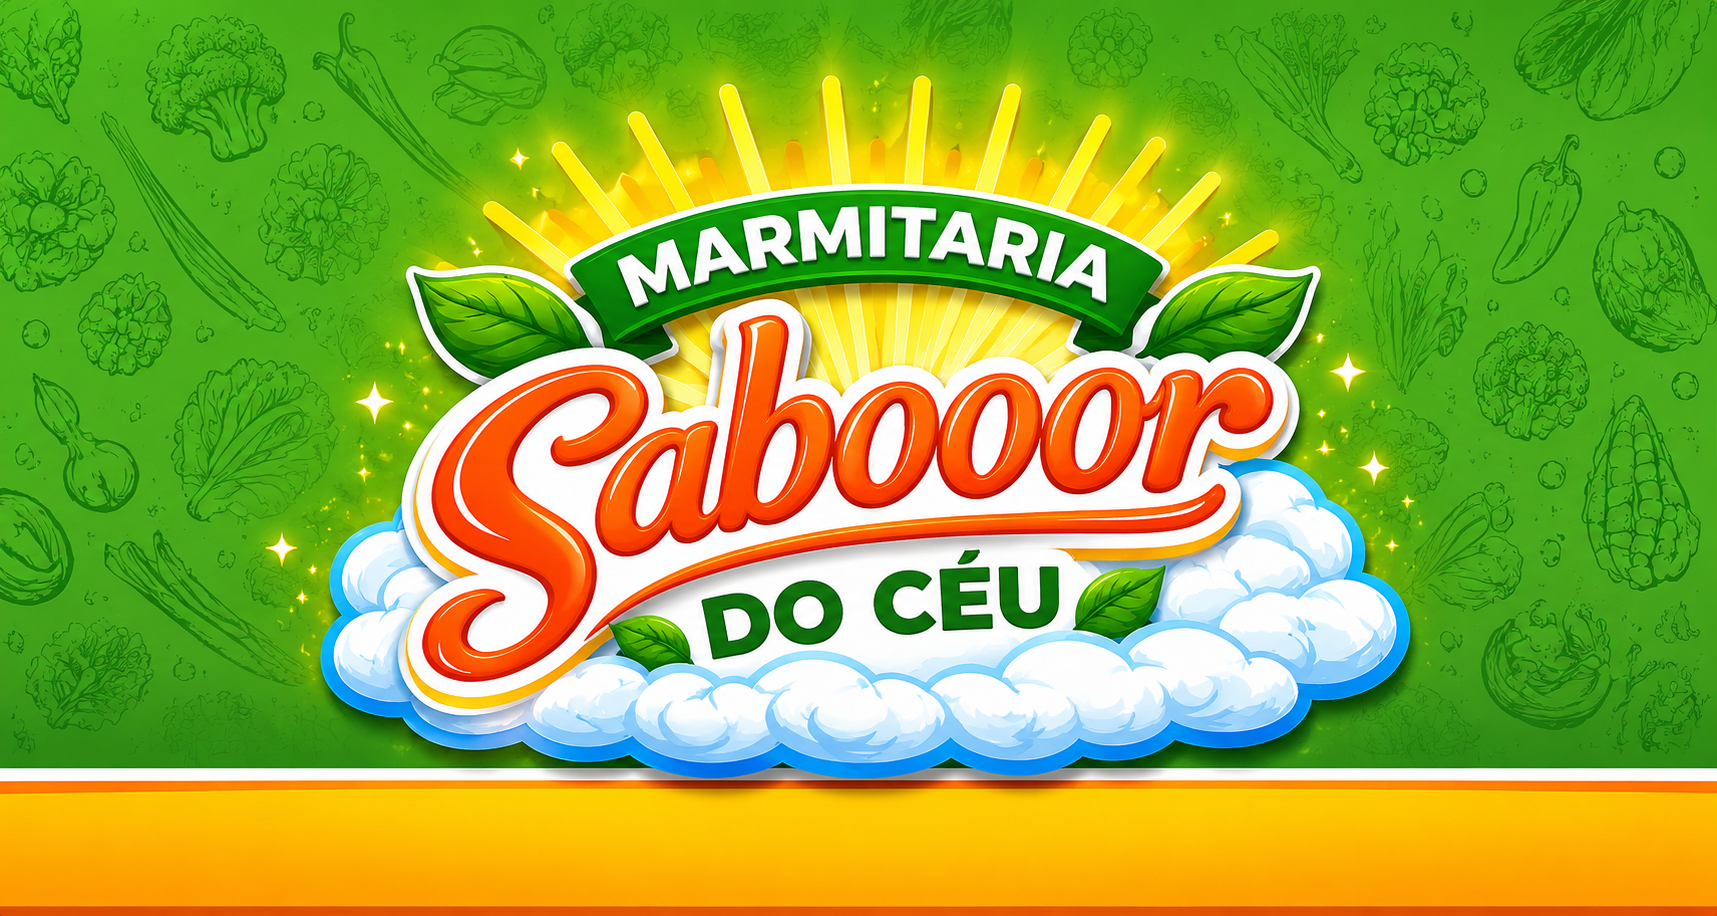
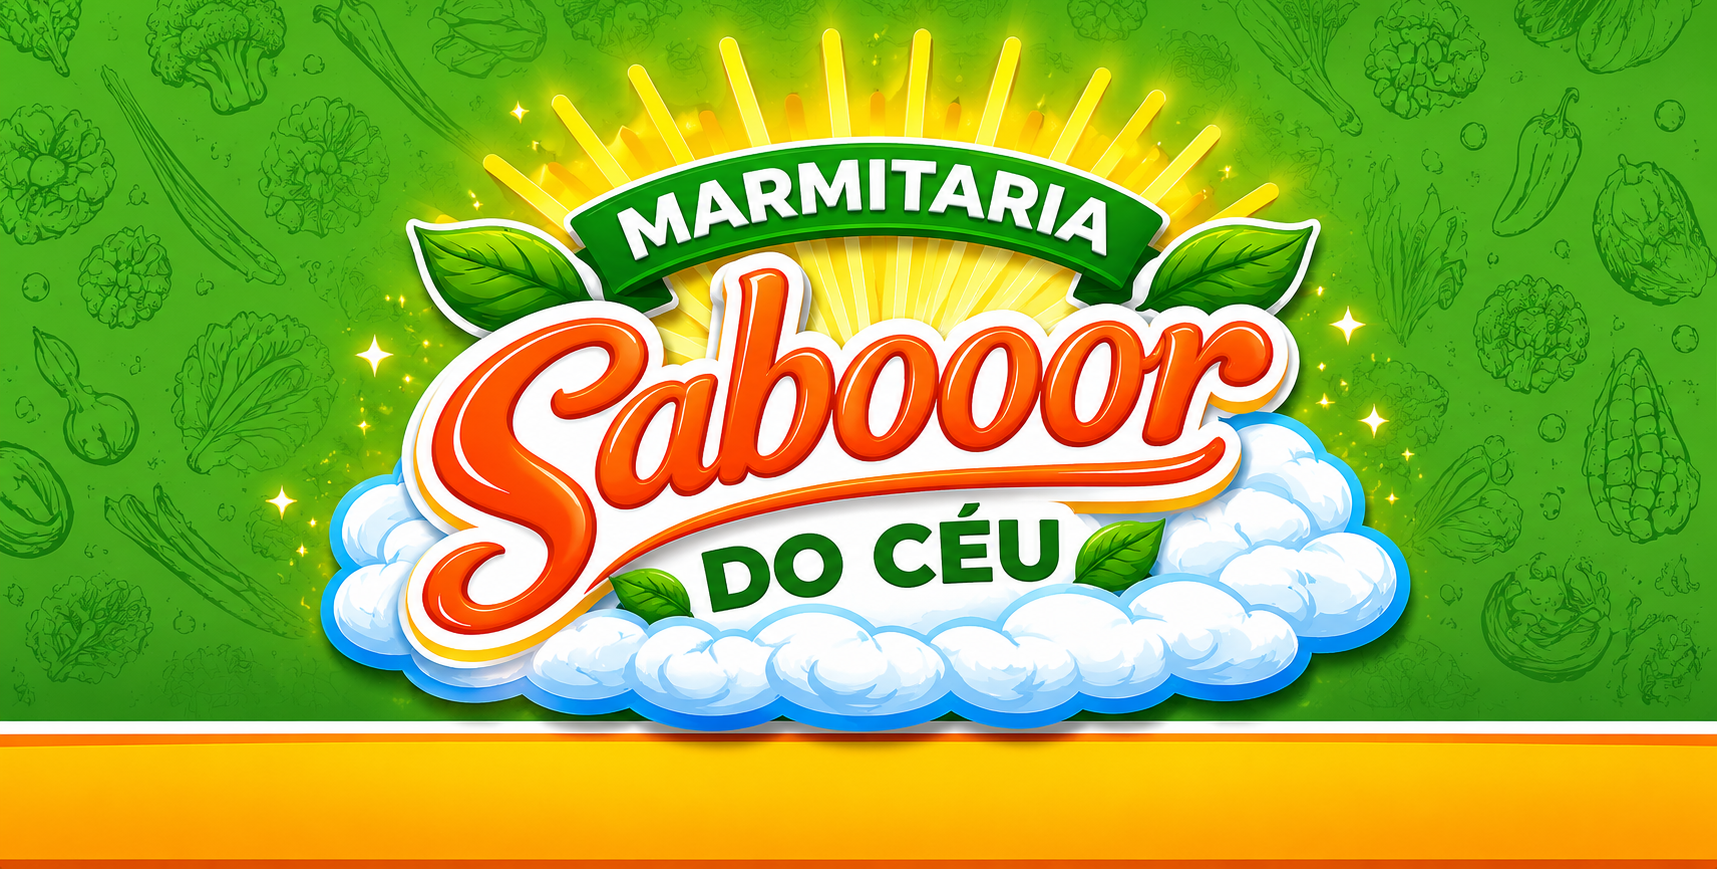
site pronto

diff --git a/css/style.scss b/css/style.scss
@@ -1,6 +1,7 @@
 * {
     padding: 0;
     margin: 0;
+    box-sizing: border-box;
 }
 
 body {
@@ -88,12 +89,21 @@ main {
 }
 
 .banner {
-    margin: 5px;
+    margin-top: 20px;
+    display: flex;
+    flex-direction: column;
+    align-items: center;
     img {
         width: 100%;
-        border-radius: 20px;
+        border-radius: 30px;
     }
+    .text-feijoada {
+    text-align: center;
+    text-decoration: none;
+    color: #ff6f00;    
 }
+}
+
 
     img {
         width: 100%;
@@ -117,7 +127,7 @@ h2 {
 .mostrar {
     display: inline-block !important;
 }
-@media (min-width: 480px) and (max-width: 1920px)  {
+@media (min-width: 580px) and (max-width: 1920px)  {
     .header {
         display: flex;
         
@@ -159,5 +169,10 @@ h2 {
     color: #ff6f00;
     text-align: center;
 }
+}
+ .text-feijoada {
+    padding-left: 300px;
+    text-decoration: none;
+    color: #ff6f00;    
 }
 }

diff --git a/css/style.css b/css/style.css
@@ -1,6 +1,7 @@
 * {
   padding: 0;
   margin: 0;
+  box-sizing: border-box;
 }
 
 body {
@@ -79,11 +80,19 @@ main {
   text-align: center;
 }
 .container .banner {
-  margin: 5px;
+  margin-top: 20px;
+  display: flex;
+  flex-direction: column;
+  align-items: center;
 }
 .container .banner img {
   width: 100%;
-  border-radius: 20px;
+  border-radius: 30px;
+}
+.container .banner .text-feijoada {
+  text-align: center;
+  text-decoration: none;
+  color: #ff6f00;
 }
 .container img {
   width: 100%;
@@ -103,7 +112,7 @@ h2 {
   display: inline-block !important;
 }
 
-@media (min-width: 480px) and (max-width: 1920px) {
+@media (min-width: 580px) and (max-width: 1920px) {
   .header {
     display: flex;
   }
@@ -136,5 +145,10 @@ h2 {
   .container h2 {
     color: #ff6f00;
     text-align: center;
+  }
+  .text-feijoada {
+    padding-left: 300px;
+    text-decoration: none;
+    color: #ff6f00;
   }
 }/*# sourceMappingURL=style.css.map */

diff --git a/pages/home.php b/pages/home.php
@@ -1,11 +1,16 @@
 <div class="container">
         <div class="banner">
         <img src="imgs/home.png" alt="home-img">
+        <a href="index.php?pagina=cardapio" title="verCardapio" class="text-feijoada">
+                        Clique aqui para ver o cardápio
+                </a>
         </div>
-        <h2>Bem vindos a marmitaria Sabôr do Céu</h2>
+        
         <div class="banner">
                 <a href="index.php?pagina=cardapio" title="Feijoada">
                         <img src="imgs/feijoada.jpg" alt="Feijoada">
+                
                 </a>
+              
         </div>
 </div>